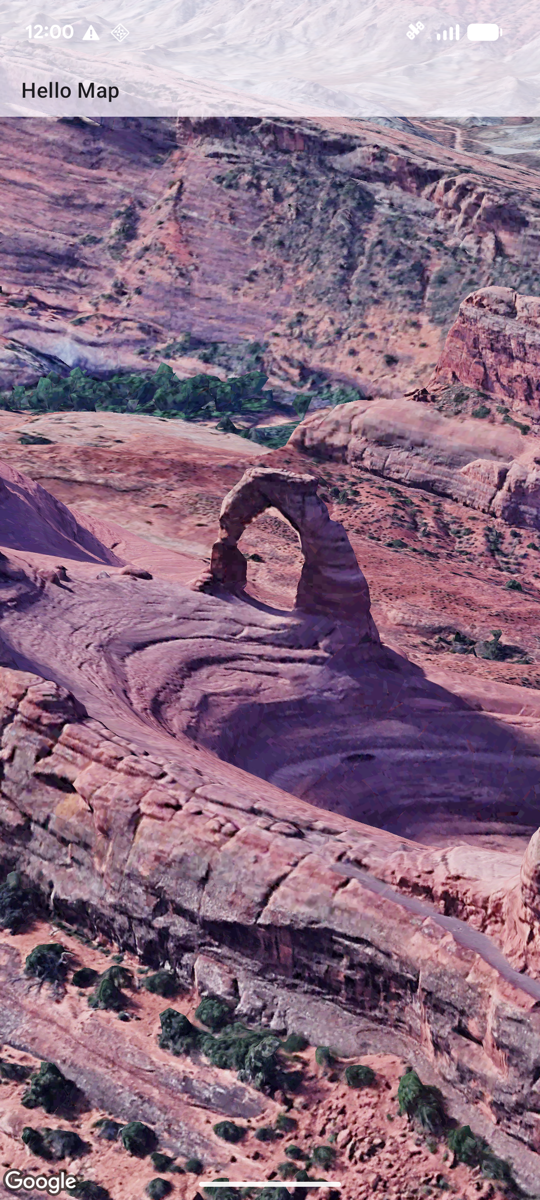
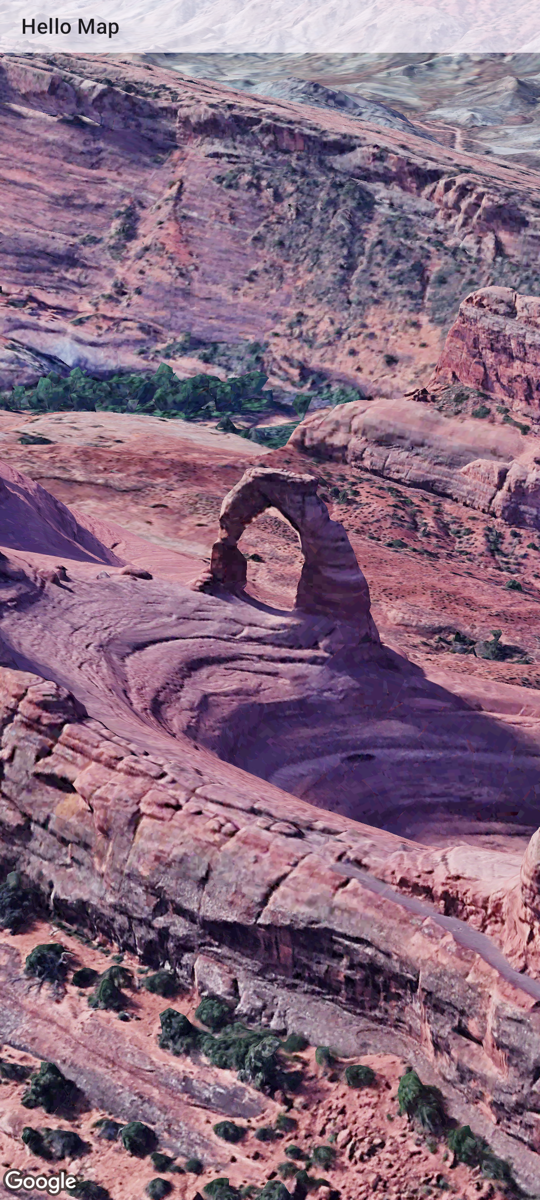
feat: apply immersive mode and update catalog thumbnails
Enabled immersive mode in all implemented activities and updated screenshots in catalog.

Changed region(s): [[0.0, 0.0, 1.0, 0.1233], [0.3556, 0.9867, 0.6222, 1.0]]

diff --git a/Maps3DSamples/ComposeDemos/app/src/main/java/com/example/composedemos/cameracontrols/CameraControlsActivity.kt b/Maps3DSamples/ComposeDemos/app/src/main/java/com/example/composedemos/cameracontrols/CameraControlsActivity.kt
@@ -20,34 +20,140 @@ import android.os.Bundle
 import androidx.activity.ComponentActivity
 import androidx.activity.compose.setContent
 import androidx.activity.enableEdgeToEdge
+import androidx.compose.foundation.background
 import androidx.compose.foundation.layout.Box
+import androidx.compose.foundation.layout.Column
 import androidx.compose.foundation.layout.fillMaxSize
+import androidx.compose.foundation.layout.fillMaxWidth
 import androidx.compose.foundation.layout.padding
+import androidx.compose.foundation.layout.statusBarsPadding
+import androidx.compose.material3.Card
 import androidx.compose.material3.MaterialTheme
-import androidx.compose.material3.Scaffold
+import androidx.compose.material3.Slider
+import androidx.compose.material3.Surface
 import androidx.compose.material3.Text
+import androidx.compose.runtime.Composable
+import androidx.compose.runtime.getValue
+import androidx.compose.runtime.mutableStateOf
+import androidx.compose.runtime.remember
+import androidx.compose.runtime.setValue
 import androidx.compose.ui.Alignment
 import androidx.compose.ui.Modifier
+import androidx.compose.ui.semantics.contentDescription
+import androidx.compose.ui.semantics.semantics
+import androidx.compose.ui.unit.dp
+import com.google.android.gms.maps3d.model.camera
+import com.google.android.gms.maps3d.model.latLngAltitude
+import com.google.maps.android.compose3d.GoogleMap3D
 
 class CameraControlsActivity : ComponentActivity() {
     override fun onCreate(savedInstanceState: Bundle?) {
         super.onCreate(savedInstanceState)
         enableEdgeToEdge()
+        
+        // Hide system tray (immersive mode)
+        val windowInsetsController = androidx.core.view.WindowCompat.getInsetsController(window, window.decorView)
+        windowInsetsController.hide(androidx.core.view.WindowInsetsCompat.Type.systemBars())
+        windowInsetsController.systemBarsBehavior = androidx.core.view.WindowInsetsControllerCompat.BEHAVIOR_SHOW_TRANSIENT_BARS_BY_SWIPE
+
         setContent {
             MaterialTheme {
-                Scaffold(modifier = Modifier.fillMaxSize()) { innerPadding ->
-                    Box(
-                        modifier = Modifier
-                            .fillMaxSize()
-                            .padding(innerPadding),
-                        contentAlignment = Alignment.Center
-                    ) {
-                        Text(
-                            text = "TODO: Camera Controls sample will be implemented here.",
-                            style = MaterialTheme.typography.headlineSmall
-                        )
-                    }
+                Surface(
+                    modifier = Modifier.fillMaxSize(),
+                    color = MaterialTheme.colorScheme.background,
+                ) {
+                    CameraControlsScreen()
                 }
+            }
+        }
+    }
+}
+
+@Composable
+fun CameraControlsScreen() {
+    var isMapSteady by remember { mutableStateOf(false) }
+
+    // Hoisted camera states
+    var heading by remember { mutableStateOf(153.2f) }
+    var tilt by remember { mutableStateOf(75.0f) }
+    var range by remember { mutableStateOf(584.2f) }
+
+    // Recreate camera object when state changes
+    val dynamicCamera = remember(heading, tilt, range) {
+        camera {
+            center = latLngAltitude {
+                latitude = 47.620527586075134
+                longitude = -122.34935779313246
+                altitude = 155.2680153221576
+            }
+            this.heading = heading.toDouble()
+            this.tilt = tilt.toDouble()
+            this.range = range.toDouble()
+            roll = 0.0
+        }
+    }
+
+    Box(
+        modifier = Modifier
+            .fillMaxSize()
+            .semantics { contentDescription = if (isMapSteady) "MapSteady" else "MapLoading" },
+    ) {
+        // 1. Map fills the entire screen
+        GoogleMap3D(
+            camera = dynamicCamera,
+            modifier = Modifier.fillMaxSize(),
+            onMapSteady = {
+                isMapSteady = true
+            },
+        )
+
+        // 2. Custom Translucent Top Bar
+        Box(
+            modifier = Modifier
+                .fillMaxWidth()
+                .background(MaterialTheme.colorScheme.surface.copy(alpha = 0.75f))
+                .statusBarsPadding()
+                .padding(horizontal = 16.dp, vertical = 8.dp)
+        ) {
+            Text(
+                text = "Camera Controls",
+                style = MaterialTheme.typography.titleMedium,
+                color = MaterialTheme.colorScheme.onSurface
+            )
+        }
+
+        // 3. Controls Panel at the bottom
+        Card(
+            modifier = Modifier
+                .align(Alignment.BottomCenter)
+                .padding(16.dp)
+                .padding(bottom = 32.dp)
+                .fillMaxWidth(),
+        ) {
+            Column(modifier = Modifier.padding(16.dp)) {
+                Text(text = "Heading: ${heading.toInt()}°", style = MaterialTheme.typography.bodyMedium)
+                Slider(
+                    value = heading,
+                    onValueChange = { heading = it },
+                    valueRange = 0f..360f,
+                    modifier = Modifier.semantics { contentDescription = "Heading Slider" }
+                )
+
+                Text(text = "Tilt: ${tilt.toInt()}°", style = MaterialTheme.typography.bodyMedium)
+                Slider(
+                    value = tilt,
+                    onValueChange = { tilt = it },
+                    valueRange = 0f..90f,
+                    modifier = Modifier.semantics { contentDescription = "Tilt Slider" }
+                )
+
+                Text(text = "Range: ${range.toInt()}m", style = MaterialTheme.typography.bodyMedium)
+                Slider(
+                    value = range,
+                    onValueChange = { range = it },
+                    valueRange = 100f..5000f,
+                    modifier = Modifier.semantics { contentDescription = "Range Slider" }
+                )
             }
         }
     }

diff --git a/Maps3DSamples/ComposeDemos/app/src/androidTest/java/com/example/composedemos/CameraControlsVisualTest.kt b/Maps3DSamples/ComposeDemos/app/src/androidTest/java/com/example/composedemos/CameraControlsVisualTest.kt
@@ -1,0 +1,58 @@
+/*
+ * Copyright 2026 Google LLC
+ *
+ * Licensed under the Apache License, Version 2.0 (the "License");
+ * you may not use this file except in compliance with the License.
+ * You may obtain a copy of the License at
+ *
+ *     http://www.apache.org/licenses/LICENSE-2.0
+ *
+ * Unless required by applicable law or agreed to in writing, software
+ * distributed under the License is distributed on an "AS IS" BASIS,
+ * WITHOUT WARRANTIES OR CONDITIONS OF ANY KIND, either express or implied.
+ * See the License for the specific language governing permissions and
+ * limitations under the License.
+ */
+
+package com.example.composedemos
+
+import android.content.Intent
+import androidx.test.ext.junit.runners.AndroidJUnit4
+import androidx.test.uiautomator.By
+import androidx.test.uiautomator.Until
+import com.example.composedemos.cameracontrols.CameraControlsActivity
+import kotlinx.coroutines.runBlocking
+import org.junit.Assert.assertTrue
+import org.junit.Test
+import org.junit.runner.RunWith
+
+@RunWith(AndroidJUnit4::class)
+class CameraControlsVisualTest : BaseVisualTest() {
+
+    @Test
+    fun verifyCameraControlsRenders() {
+        runBlocking {
+            // Launch CameraControlsActivity
+            val intent = Intent(context, CameraControlsActivity::class.java).apply {
+                addFlags(Intent.FLAG_ACTIVITY_NEW_TASK)
+            }
+            context.startActivity(intent)
+
+            // Wait for the activity to be displayed
+            uiDevice.wait(Until.hasObject(By.pkg(context.packageName).depth(0)), 10000)
+
+            // Wait for the map to render and tiles to load
+            waitForMapRendering(60)
+
+            // Verify that a 3D map view is visible
+            // (Implicitly verified by waitForMapRendering)
+
+            // Verify that controls (e.g., a slider or text for "Heading") are visible
+            val foundHeading = uiDevice.wait(Until.hasObject(By.textContains("Heading")), 5000)
+            assertTrue("Heading control not found", foundHeading)
+
+            // Capture a screenshot for visual confirmation
+            captureScreenshot("camera_controls_screenshot.png")
+        }
+    }
+}

diff --git a/Maps3DSamples/ComposeDemos/app/src/main/java/com/example/composedemos/mapinteractions/MapInteractionsActivity.kt b/Maps3DSamples/ComposeDemos/app/src/main/java/com/example/composedemos/mapinteractions/MapInteractionsActivity.kt
@@ -49,6 +49,12 @@ class MapInteractionsActivity : ComponentActivity() {
     override fun onCreate(savedInstanceState: Bundle?) {
         super.onCreate(savedInstanceState)
         enableEdgeToEdge()
+        
+        // Hide system tray (immersive mode)
+        val windowInsetsController = androidx.core.view.WindowCompat.getInsetsController(window, window.decorView)
+        windowInsetsController.hide(androidx.core.view.WindowInsetsCompat.Type.systemBars())
+        windowInsetsController.systemBarsBehavior = androidx.core.view.WindowInsetsControllerCompat.BEHAVIOR_SHOW_TRANSIENT_BARS_BY_SWIPE
+
         setContent {
             MaterialTheme {
                 Surface(

diff --git a/Maps3DSamples/ComposeDemos/app/src/main/java/com/example/composedemos/polylines/PolylinesActivity.kt b/Maps3DSamples/ComposeDemos/app/src/main/java/com/example/composedemos/polylines/PolylinesActivity.kt
@@ -55,6 +55,12 @@ class PolylinesActivity : ComponentActivity() {
     override fun onCreate(savedInstanceState: Bundle?) {
         super.onCreate(savedInstanceState)
         enableEdgeToEdge()
+        
+        // Hide system tray (immersive mode)
+        val windowInsetsController = androidx.core.view.WindowCompat.getInsetsController(window, window.decorView)
+        windowInsetsController.hide(androidx.core.view.WindowInsetsCompat.Type.systemBars())
+        windowInsetsController.systemBarsBehavior = androidx.core.view.WindowInsetsControllerCompat.BEHAVIOR_SHOW_TRANSIENT_BARS_BY_SWIPE
+
         setContent {
             MaterialTheme {
                 Surface(

diff --git a/Maps3DSamples/ComposeDemos/app/src/main/java/com/example/composedemos/hellomap/HelloMapActivity.kt b/Maps3DSamples/ComposeDemos/app/src/main/java/com/example/composedemos/hellomap/HelloMapActivity.kt
@@ -47,6 +47,12 @@ class HelloMapActivity : ComponentActivity() {
     override fun onCreate(savedInstanceState: Bundle?) {
         super.onCreate(savedInstanceState)
         enableEdgeToEdge()
+        
+        // Hide system tray (immersive mode)
+        val windowInsetsController = androidx.core.view.WindowCompat.getInsetsController(window, window.decorView)
+        windowInsetsController.hide(androidx.core.view.WindowInsetsCompat.Type.systemBars())
+        windowInsetsController.systemBarsBehavior = androidx.core.view.WindowInsetsControllerCompat.BEHAVIOR_SHOW_TRANSIENT_BARS_BY_SWIPE
+
         setContent {
             MaterialTheme {
                 Surface(

diff --git a/Maps3DSamples/ComposeDemos/app/src/main/java/com/example/composedemos/popovers/PopoversActivity.kt b/Maps3DSamples/ComposeDemos/app/src/main/java/com/example/composedemos/popovers/PopoversActivity.kt
@@ -52,6 +52,12 @@ class PopoversActivity : ComponentActivity() {
     override fun onCreate(savedInstanceState: Bundle?) {
         super.onCreate(savedInstanceState)
         enableEdgeToEdge()
+        
+        // Hide system tray (immersive mode)
+        val windowInsetsController = androidx.core.view.WindowCompat.getInsetsController(window, window.decorView)
+        windowInsetsController.hide(androidx.core.view.WindowInsetsCompat.Type.systemBars())
+        windowInsetsController.systemBarsBehavior = androidx.core.view.WindowInsetsControllerCompat.BEHAVIOR_SHOW_TRANSIENT_BARS_BY_SWIPE
+
         setContent {
             MaterialTheme {
                 Surface(

diff --git a/Maps3DSamples/ComposeDemos/automation_script.py b/Maps3DSamples/ComposeDemos/automation_script.py
@@ -47,6 +47,7 @@ def main():
         "PolylinesVisualTest": "polylines_screenshot.png",
         "MapInteractionsVisualTest": "map_interactions_screenshot.png",
         "PopoversVisualTest": "popovers_screenshot.png",
+        "CameraControlsVisualTest": "camera_controls_screenshot.png",
     }
     
     filename = filename_mapping.get(test_class, f"{test_class.lower()}_screenshot.png")
@@ -108,6 +109,7 @@ def main():
         "PolylinesVisualTest": "Polylines",
         "MapInteractionsVisualTest": "Map Interactions",
         "PopoversVisualTest": "Popovers",
+        "CameraControlsVisualTest": "Camera Controls",
     }
     
     feature_name = mapping.get(test_class)
@@ -121,6 +123,7 @@ def main():
             "Polylines": "polylines/PolylinesActivity.kt",
             "Map Interactions": "mapinteractions/MapInteractionsActivity.kt",
             "Popovers": "popovers/PopoversActivity.kt",
+            "Camera Controls": "cameracontrols/CameraControlsActivity.kt",
         }
         activity_path = activity_mapping.get(feature_name)
         

diff --git a/Maps3DSamples/ComposeDemos/app/README.md b/Maps3DSamples/ComposeDemos/app/README.md
@@ -10,7 +10,7 @@ This directory contains the Compose samples for the Android Maps 3D SDK. We use 
 | **Polylines** | ✅ Done | [PolylinesActivity.kt](src/main/java/com/example/composedemos/polylines/PolylinesActivity.kt) | <img src="src/main/assets/screenshots/polylines_screenshot.png" alt="Screenshot" width="121"/> |
 | **Map Interactions** | 🚧 Skeleton | [MapInteractionsActivity.kt](src/main/java/com/example/composedemos/mapinteractions/MapInteractionsActivity.kt) | |
 | **Popovers** | ✅ Done | [PopoversActivity.kt](src/main/java/com/example/composedemos/popovers/PopoversActivity.kt) | <img src="src/main/assets/screenshots/popovers_screenshot.png" alt="Screenshot" width="121"/> |
-| **Camera Controls** | 🚧 Skeleton | [CameraControlsActivity.kt](src/main/java/com/example/composedemos/cameracontrols/CameraControlsActivity.kt) | |
+| **Camera Controls** | ✅ Done | [CameraControlsActivity.kt](src/main/java/com/example/composedemos/cameracontrols/CameraControlsActivity.kt) | <img src="src/main/assets/screenshots/camera_controls_screenshot.png" alt="Screenshot" width="121"/> |
 | **Polygons** | 🚧 Skeleton | [PolygonsActivity.kt](src/main/java/com/example/composedemos/polygons/PolygonsActivity.kt) | |
 | **Models** | 🚧 Skeleton | [ModelsActivity.kt](src/main/java/com/example/composedemos/models/ModelsActivity.kt) | |
 | **Markers** | 🚧 Skeleton | [MarkersActivity.kt](src/main/java/com/example/composedemos/markers/MarkersActivity.kt) | |
